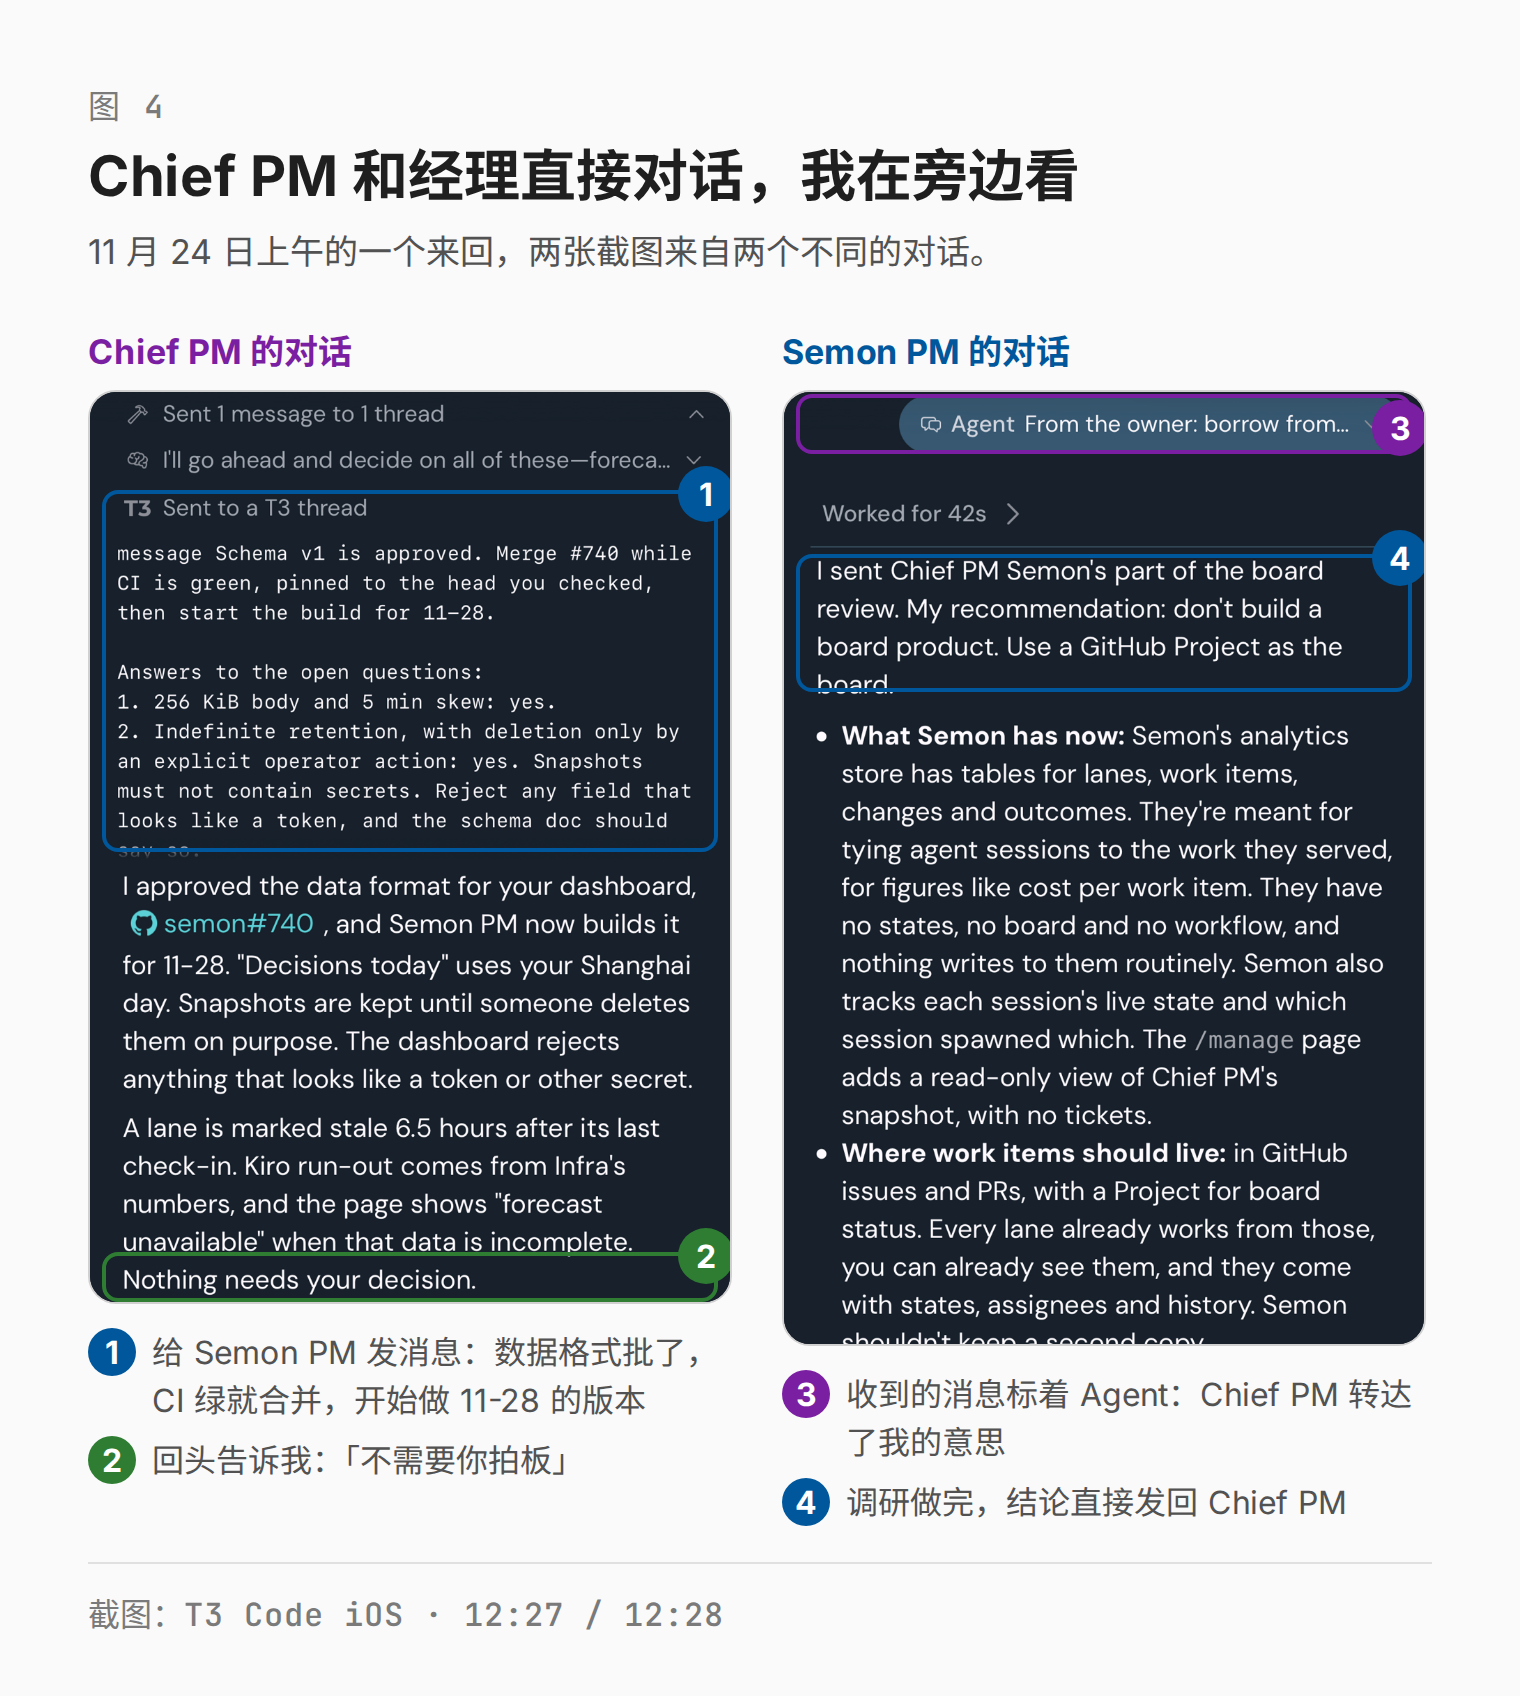
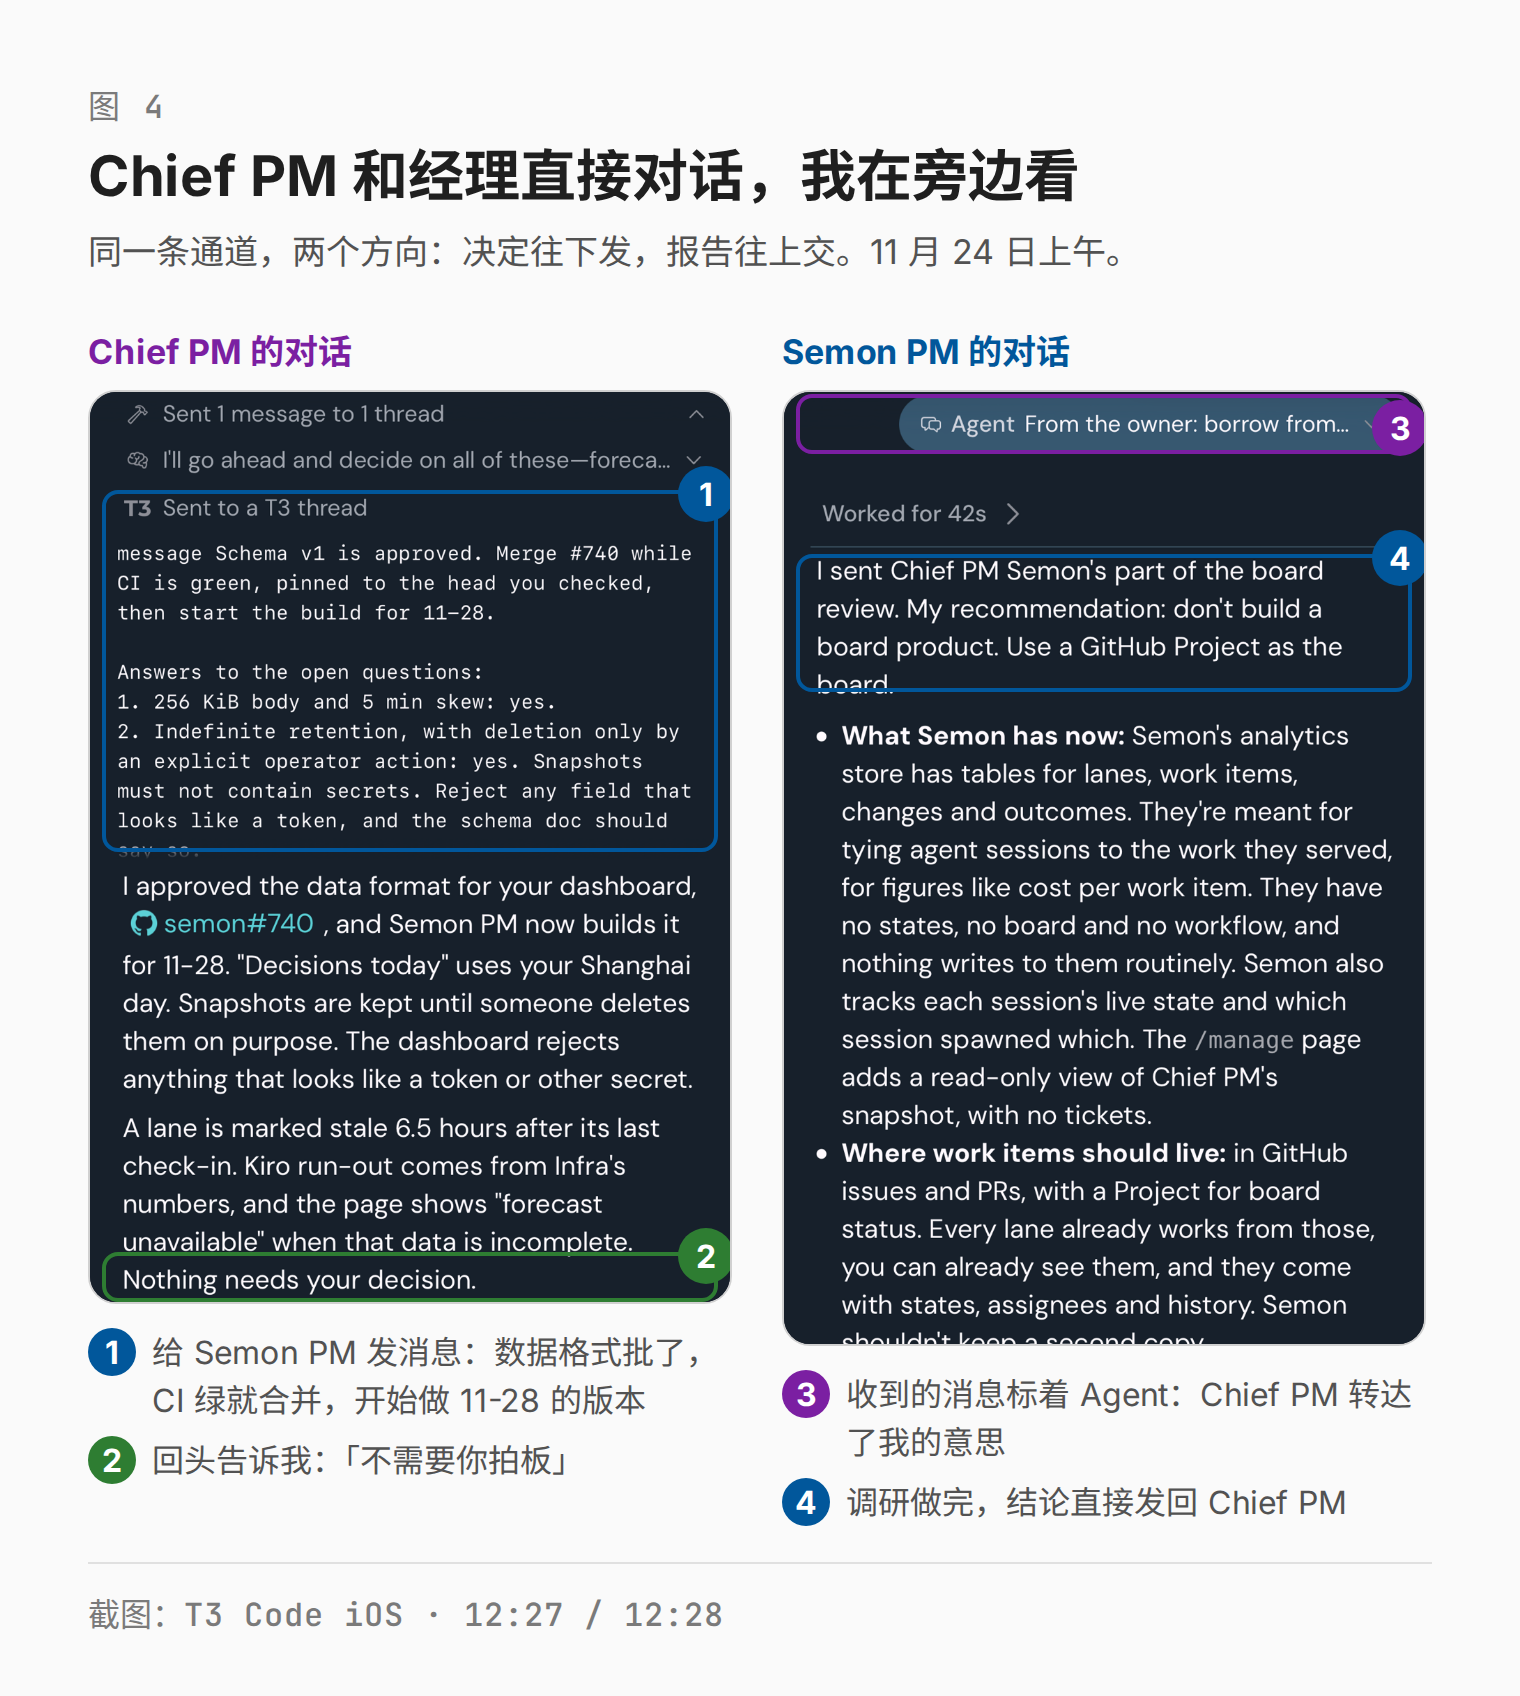
Chief PM post: fix figure placement and framing (#78)
Move the sidebar screenshot out of the pre-CPM intro to where the Chief PM
is appointed; move the message-trend chart to the end of the handover
section; reframe figure 4 as one channel used both ways and break it out of
its paragraph; note Ostrom joined later; 'less than a day'.

Changed region(s): [[0.0618, 0.125, 0.7421, 0.1562]]

diff --git a/drafts/2026-11-24-managing-managers-a-chief-pm-agent-and-the-coordination-tax/figures/figure-4-peer-talk.zh.html b/drafts/2026-11-24-managing-managers-a-chief-pm-agent-and-the-coordination-tax/figures/figure-4-peer-talk.zh.html
@@ -36,7 +36,7 @@ svg{display:block}
 
 </style></head><body><div class="canvas">
 <div class="figno">图 4</div><h1>Chief PM 和经理直接对话，我在旁边看</h1>
-<div class="sub">11 月 24 日上午的一个来回，两张截图来自两个不同的对话。</div>
+<div class="sub">同一条通道，两个方向：决定往下发，报告往上交。11 月 24 日上午。</div>
 <div class="cols">
 <div class="col"><div class="cap" style="color:#7b1fa2">Chief PM 的对话</div><div class="shotwrap" style="width:322px;height:457px"><img src="shots/cpm-to-semon.png" style="width:322px;top:-6.3px"/><div class="box" style="left:6px;right:6px;top:48.8px;height:181.2px;border-color:#01579b"></div><div class="badge" style="right:-2px;top:36.8px;background:#01579b">1</div><div class="box" style="left:6px;right:6px;top:430.4px;height:24.4px;border-color:#2e7d32"></div><div class="badge" style="right:-2px;top:418.4px;background:#2e7d32">2</div></div>
 <div class="legend"><div><i style="background:#01579b">1</i>给 Semon PM 发消息：数据格式批了，CI 绿就合并，开始做 11-28 的版本</div>

diff --git a/drafts/2026-11-24-managing-managers-a-chief-pm-agent-and-the-coordination-tax/figures/figure-4-peer-talk.en.html b/drafts/2026-11-24-managing-managers-a-chief-pm-agent-and-the-coordination-tax/figures/figure-4-peer-talk.en.html
@@ -36,7 +36,7 @@ svg{display:block}
 
 </style></head><body><div class="canvas">
 <div class="figno">FIGURE 4</div><h1>The Chief PM and a manager talk directly; I watch</h1>
-<div class="sub">One exchange on the morning of 24 Nov, seen from both threads.</div>
+<div class="sub">One channel, both directions: decisions go down, reports come up. 24 Nov, morning.</div>
 <div class="cols">
 <div class="col"><div class="cap" style="color:#7b1fa2">The Chief PM's thread</div><div class="shotwrap" style="width:322px;height:457px"><img src="shots/cpm-to-semon.png" style="width:322px;top:-6.3px"/><div class="box" style="left:6px;right:6px;top:48.8px;height:181.2px;border-color:#01579b"></div><div class="badge" style="right:-2px;top:36.8px;background:#01579b">1</div><div class="box" style="left:6px;right:6px;top:430.4px;height:24.4px;border-color:#2e7d32"></div><div class="badge" style="right:-2px;top:418.4px;background:#2e7d32">2</div></div>
 <div class="legend"><div><i style="background:#01579b">1</i>Messages Semon PM: format approved, merge while CI is green, start the 11-28 build</div>

diff --git a/drafts/2026-11-24-managing-managers-a-chief-pm-agent-and-the-coordination-tax/figures/gen_shots.py b/drafts/2026-11-24-managing-managers-a-chief-pm-agent-and-the-coordination-tax/figures/gen_shots.py
@@ -67,7 +67,7 @@ def fig5():
     b, hb = shot("semon-to-cpm.png", w, 268, 1640,
                  [(272, 358, "#7b1fa2", "3"), (500, 700, "#01579b", "4")])
     body = f"""<div class="figno">图 4</div><h1>Chief PM 和经理直接对话，我在旁边看</h1>
-<div class="sub">11 月 24 日上午的一个来回，两张截图来自两个不同的对话。</div>
+<div class="sub">同一条通道，两个方向：决定往下发，报告往上交。11 月 24 日上午。</div>
 <div class="cols">
 <div class="col"><div class="cap" style="color:#7b1fa2">Chief PM 的对话</div>{a}
 <div class="legend"><div><i style="background:#01579b">1</i>给 Semon PM 发消息：数据格式批了，CI 绿就合并，开始做 11-28 的版本</div>
@@ -94,7 +94,7 @@ EN5 = [
     ("此刻还在跑的两个：Eval、Semon", "the two running right now: Eval and Semon"),
     ("截图：T3 Code iOS · 线程列表按最近活动排序", "Screenshot: T3 Code iOS · threads sorted by recent activity"),
     ("Chief PM 和经理直接对话，我在旁边看", "The Chief PM and a manager talk directly; I watch"),
-    ("11 月 24 日上午的一个来回，两张截图来自两个不同的对话。", "One exchange on the morning of 24 Nov, seen from both threads."),
+    ("同一条通道，两个方向：决定往下发，报告往上交。11 月 24 日上午。", "One channel, both directions: decisions go down, reports come up. 24 Nov, morning."),
     ("Chief PM 的对话", "The Chief PM's thread"), ("Semon PM 的对话", "Semon PM's thread"),
     ("给 Semon PM 发消息：数据格式批了，CI 绿就合并，开始做 11-28 的版本", "Messages Semon PM: format approved, merge while CI is green, start the 11-28 build"),
     ("回头告诉我：「不需要你拍板」", "Then tells me: “Nothing needs your decision”"),
